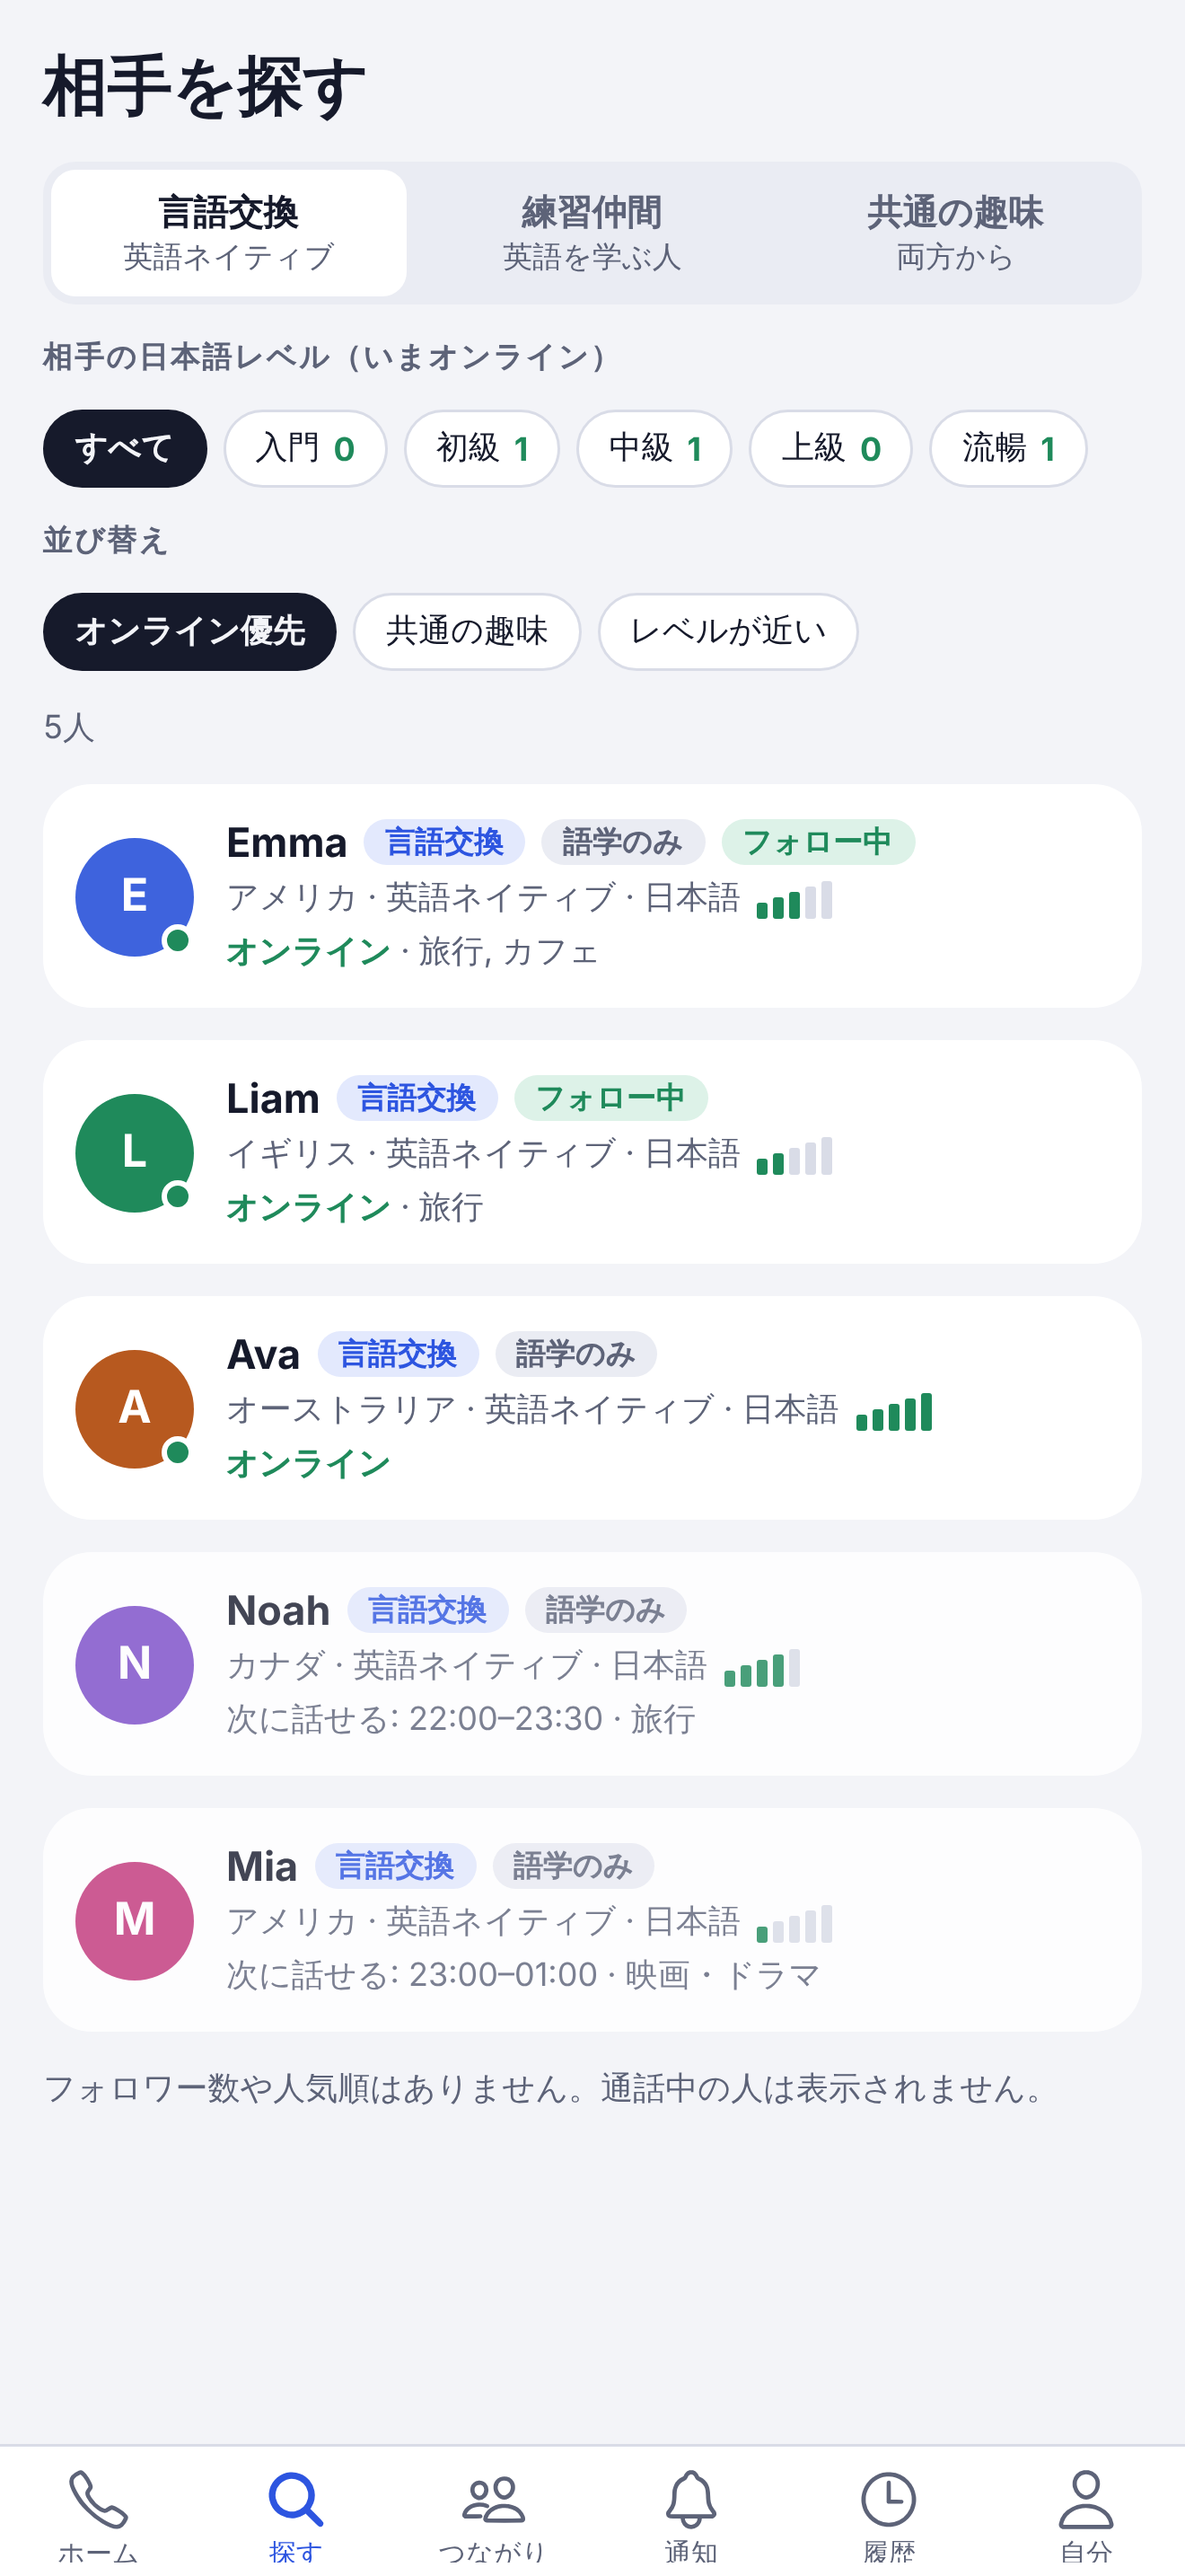
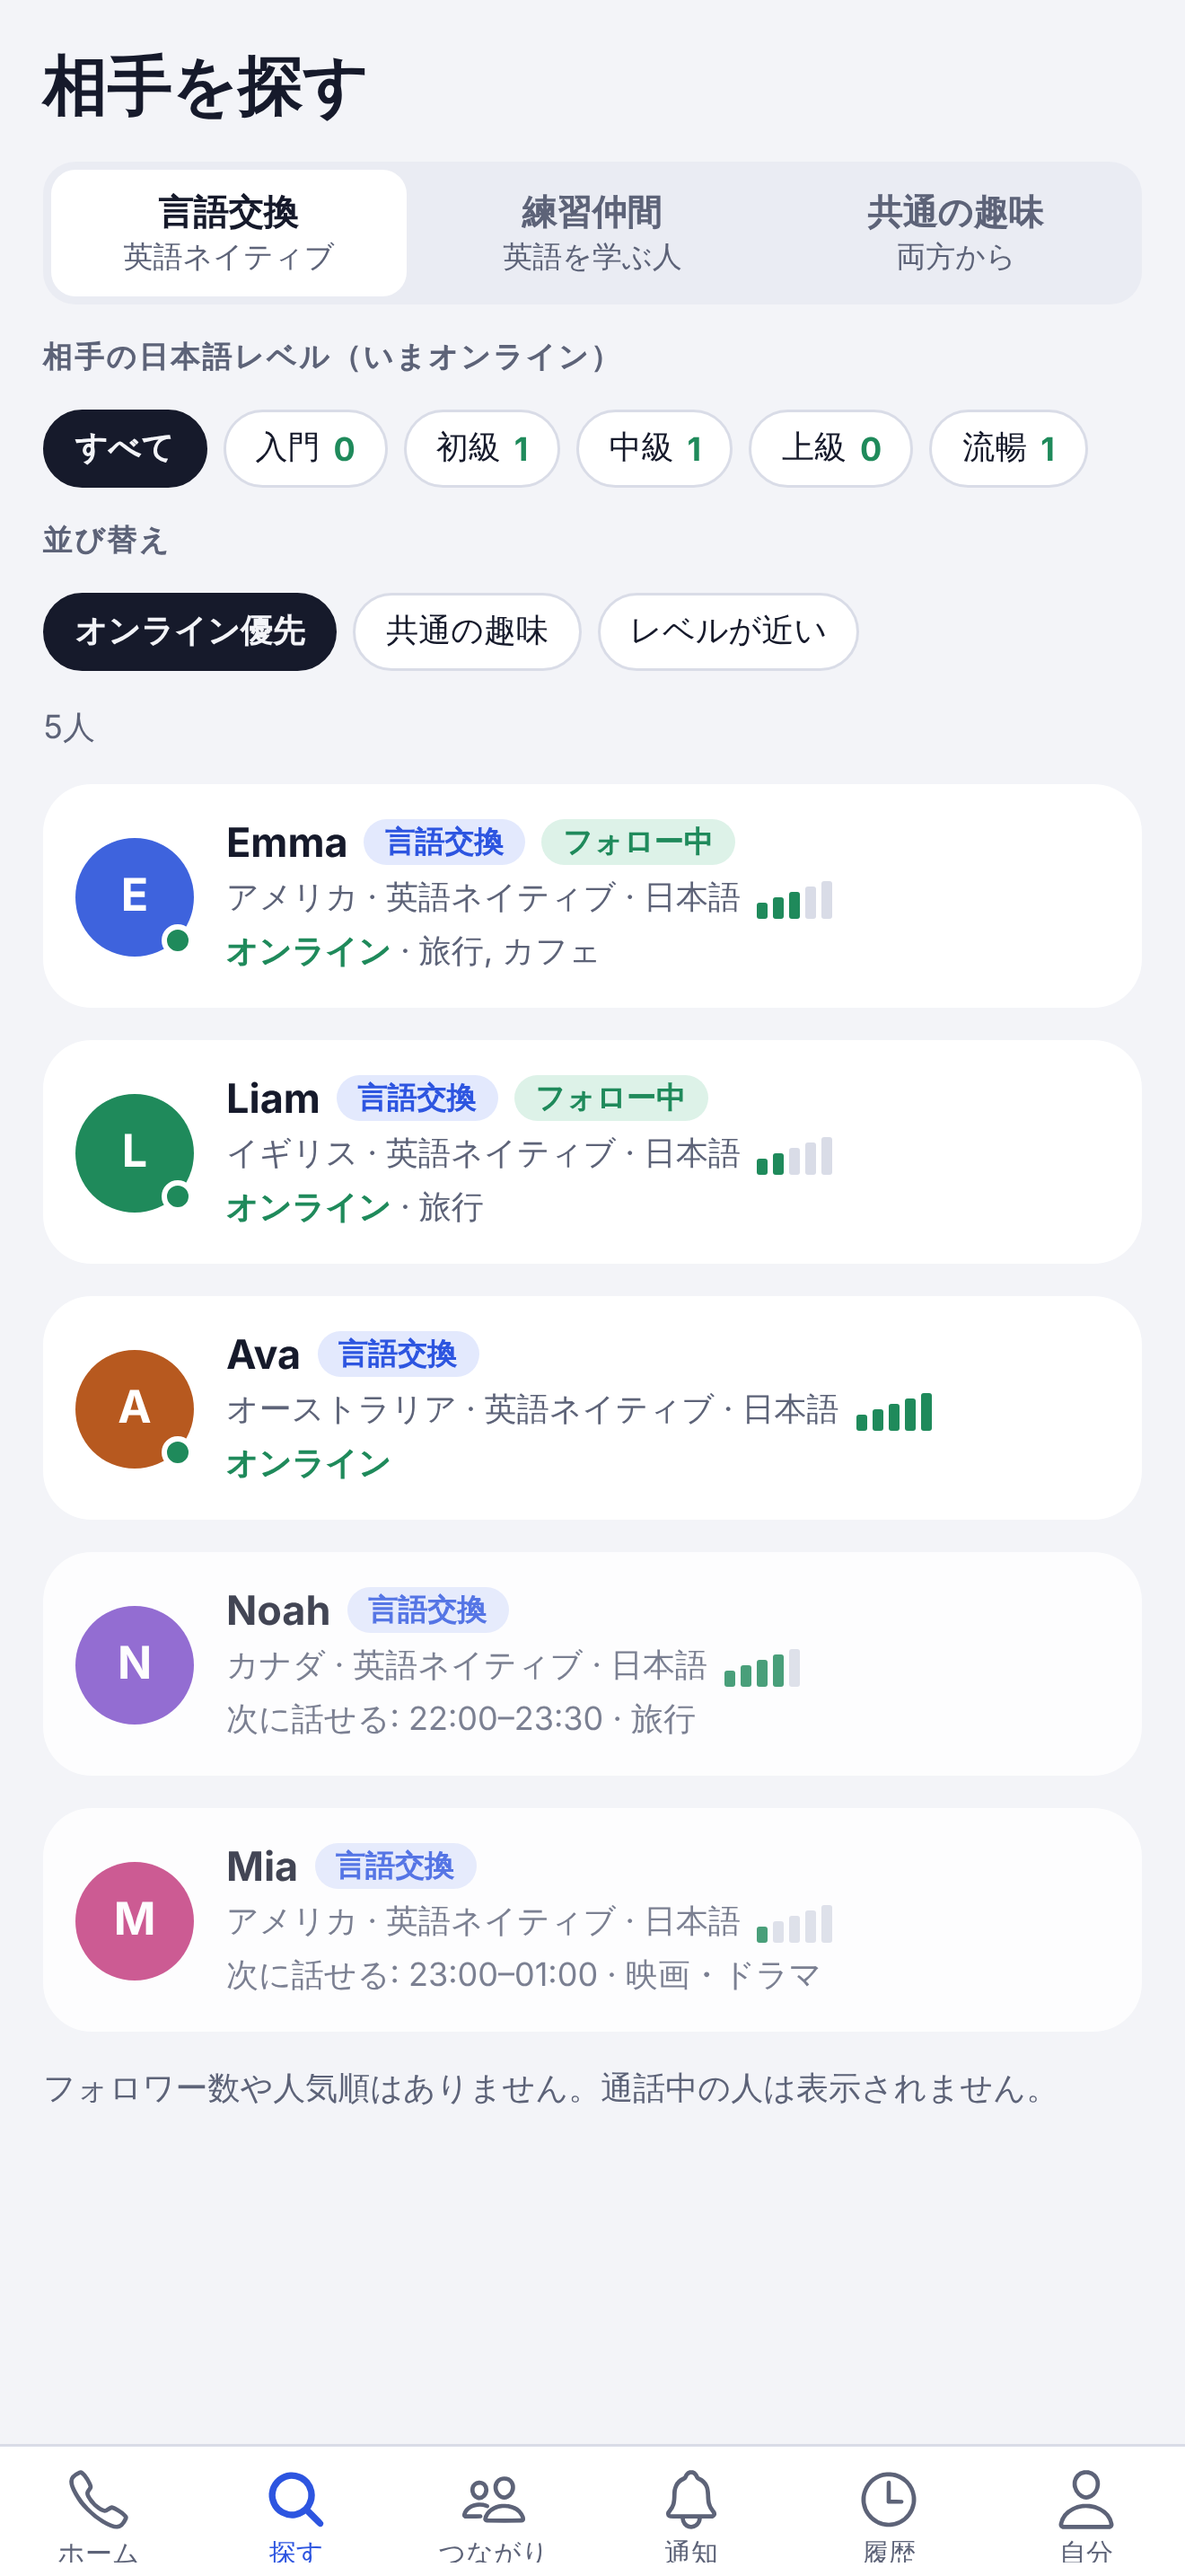
1.1.0: sample practice records and new screenshots
The demo people (used only without an account, e.g. for store screenshots)
get a believable practice record so the match card and profile show it. The
screenshots now show the match card with the practice record.

Claude-Session: https://claude.ai/code/session_01NveLMyzBZBySM9mXzZ4YUv

diff --git a/src/data/samplePartners.ts b/src/data/samplePartners.ts
@@ -2,6 +2,7 @@ import type { Person } from '@/domain/discovery';
 import type { Candidate } from '@/domain/matching';
 import type { HoursRange } from '@/domain/schedule';
 import type { VoiceIntro } from '@/state/store';
+import { emptyStats, type PracticeStats } from '@/domain/practice';
 
 /** Stand-in people until the server exists. Hours are in the person's own local time. */
 export interface Partner extends Candidate, Person {
@@ -64,3 +65,10 @@ export const SAMPLE_PARTNERS: Partner[] = [
   p({ id: 'kenji', name: 'Kenji', country: 'JP', color: '#4A6FA5', native: 'ja', learn: 'es', level: 3, status: 'online', languageOnly: true, calls: 26,
     bio: 'サッカーが好きでスペイン語を勉強しています。', hobbies: ['sports', 'travel'], hours: { start: '20:00', end: '22:00' }, utcOffset: 540 }),
 ];
+
+/** A believable practice record for a sample person (used only where no real account exists). */
+export function sampleStats(p: Pick<Partner, 'calls'>): PracticeStats {
+  const finished = Math.round(p.calls * 1.06) + 1;
+  const days = Array.from({ length: Math.min(28, 6 + (p.calls % 19)) }, (_, i) => new Date(Date.now() - i * 864e5).toISOString().slice(0, 10)).reverse();
+  return { ...emptyStats(), finished, completed: p.calls, days };
+}

diff --git a/src/app/call.tsx b/src/app/call.tsx
@@ -11,7 +11,7 @@ import { Badge, Confetti, SpeechBubble } from '@/components/progress';
 import { Sheet } from '@/components/Sheet';
 import { Body, Button, Card, Title } from '@/components/ui';
 import { EXAMPLE_QUESTIONS, HELP_PHRASES, QUESTIONS, questionIn, questionsFor } from '@/data/conversation';
-import type { Partner } from '@/data/samplePartners';
+import { sampleStats, type Partner } from '@/data/samplePartners';
 import {
   REQUIRED_SECONDS, callOutcome, formatClock, shouldShowAd, silenceNudge, type CallOutcome, type EndReason,
 } from '@/domain/callRules';
@@ -399,7 +399,7 @@ export default function Call() {
                 <LevelBars level={p.level} />
               </View>
               {/* Practice record first, then the voice: how someone practises and speaks, not how they look. */}
-              <PracticeRecord stats={partnerStats} fallbackCalls={p.calls} />
+              <PracticeRecord stats={live ? partnerStats : sampleStats(p)} fallbackCalls={p.calls} />
               {p.voice ? <View style={{ alignSelf: 'stretch' }}><VoicePlayer voice={p.voice} /></View> : null}
               {p.bio ? <Body style={{ textAlign: 'center' }}>{p.bio}</Body> : null}
 

diff --git a/src/app/person/[id].tsx b/src/app/person/[id].tsx
@@ -19,6 +19,7 @@ import { clockAt, requestExpiresAt } from '@/domain/schedule';
 import { connections } from '@/services/connections';
 import { api } from '@/services/api';
 import { usePerson } from '@/services/people';
+import { sampleStats } from '@/data/samplePartners';
 import { findSamplePartner } from '@/services/matchmaking';
 import { requests, sendRequest, type SendError } from '@/services/requests';
 import { useApp, type OutgoingRequest } from '@/state/store';
@@ -124,7 +125,7 @@ export default function PersonScreen() {
         </View>
       </View>
 
-      <PracticeRecord stats={personStats} fallbackCalls={person.calls} />
+      <PracticeRecord stats={personStats ?? (findSamplePartner(person.id) ? sampleStats(person) : null)} fallbackCalls={person.calls} />
       {person.voice ? <VoicePlayer voice={person.voice} /> : null}
       <Body>{person.bio}</Body>
 
